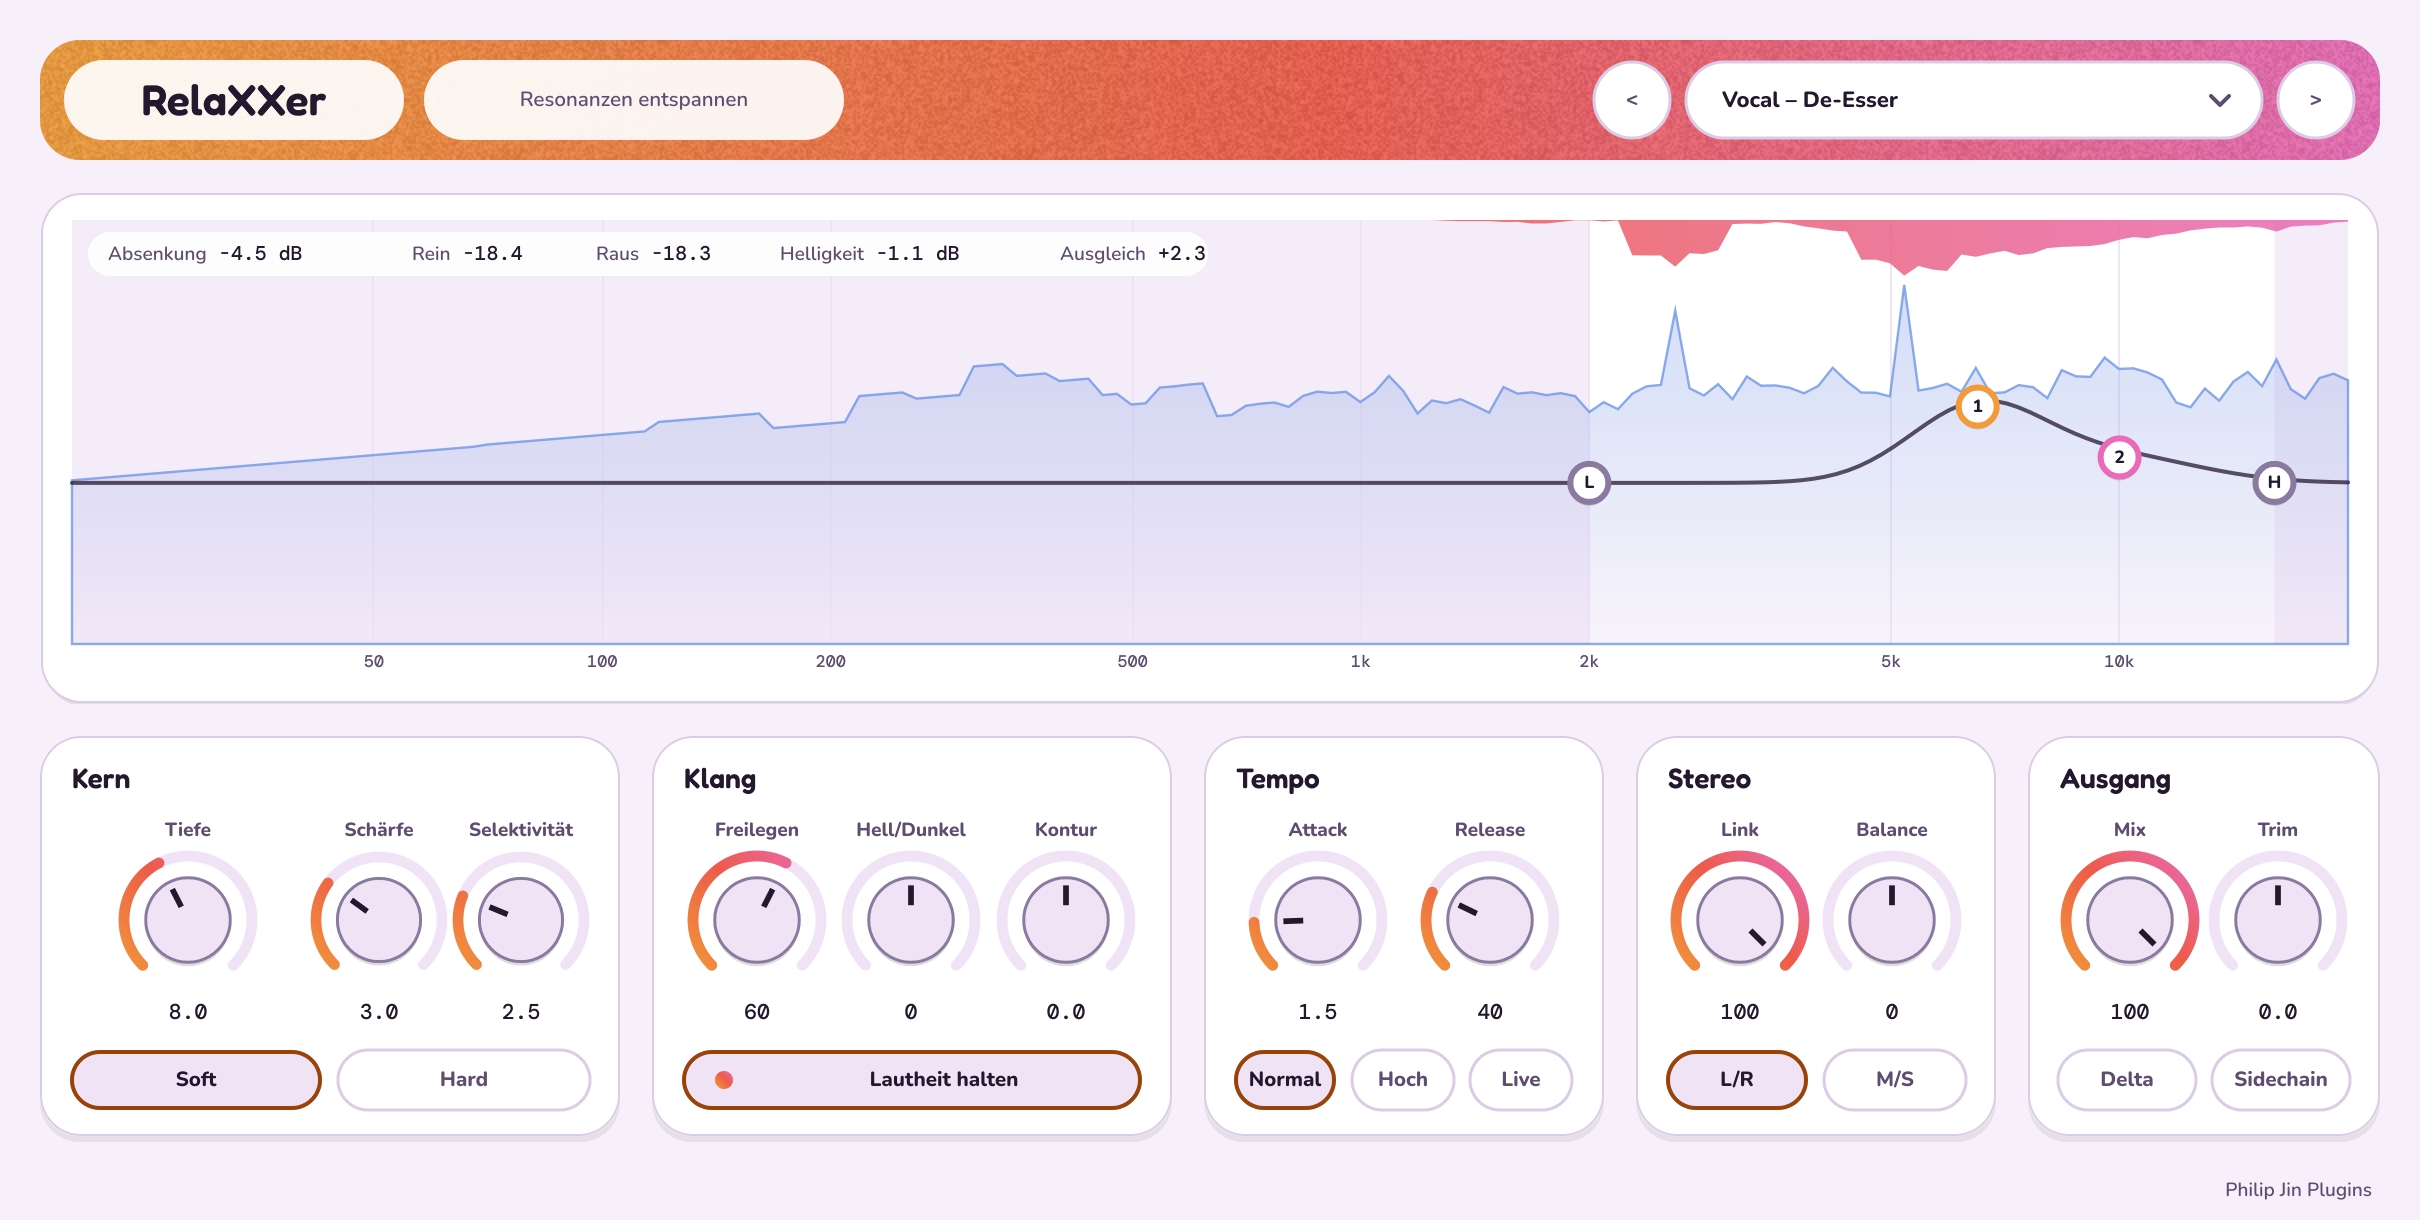
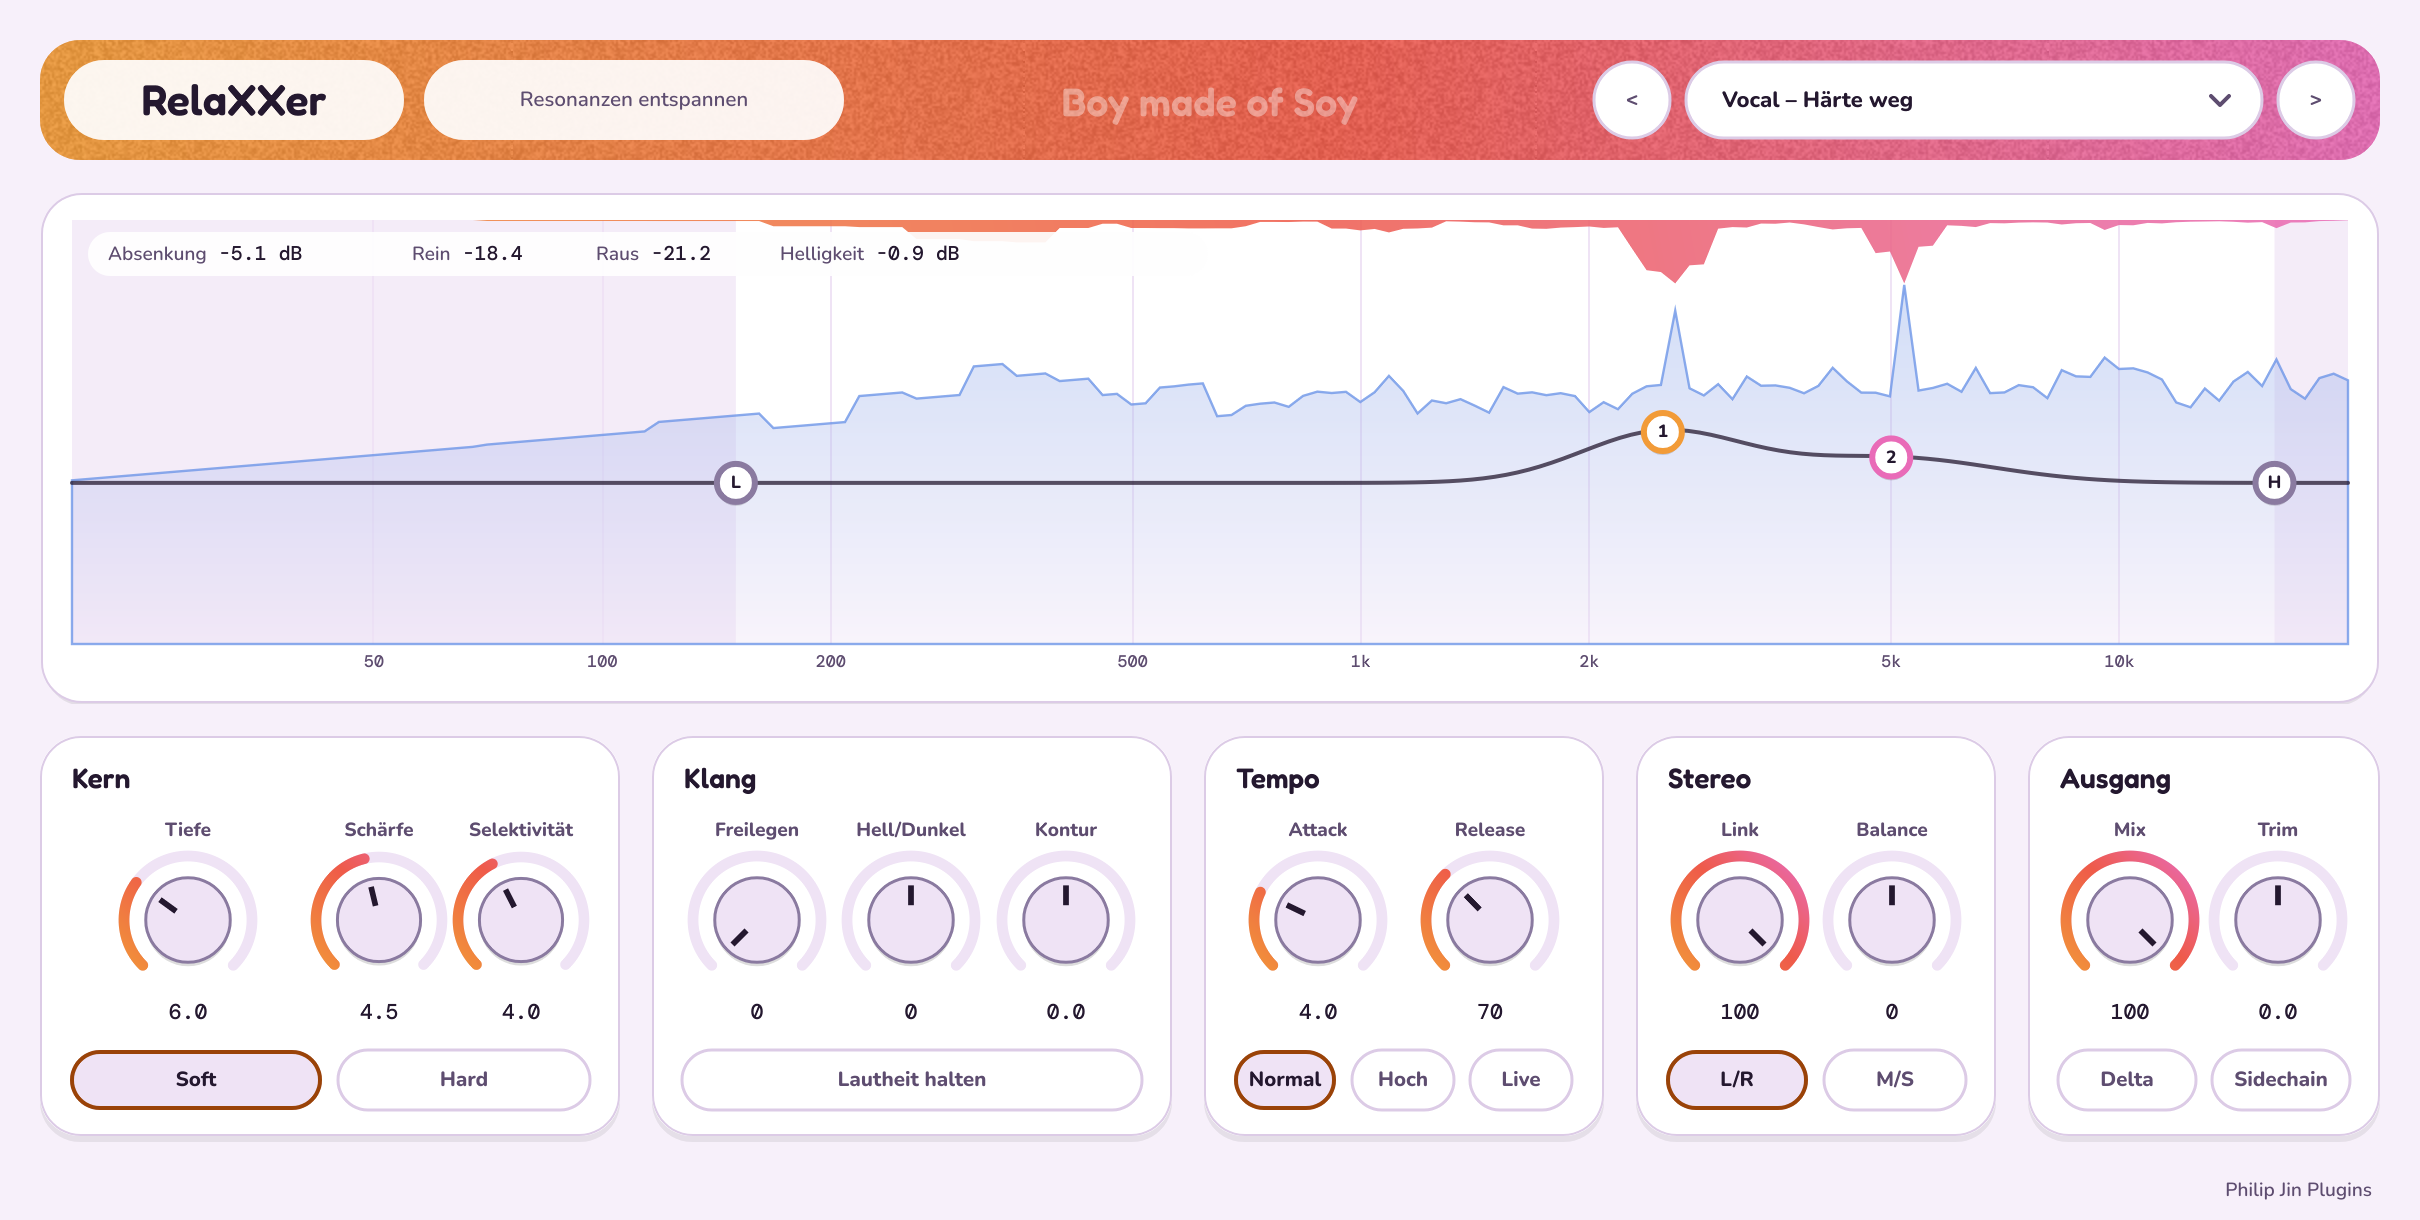
Wasserzeichen "Boy made of Soy" mittig in der App-Leiste
Claude-Session: https://claude.ai/code/session_01X9k6KG9QaT2xQqebecujZa

diff --git a/Source/PluginEditor.cpp b/Source/PluginEditor.cpp
@@ -790,6 +790,11 @@ void RelaxxerEditor::paint (juce::Graphics& g)
         g.fillRect (a);
         g.restoreState();
 
+        // Wasserzeichen der Marke, mittig im Balken
+        g.setColour (juce::Colours::white.withAlpha (0.38f));
+        g.setFont (soy::Fonts::display (24.0f));
+        g.drawText ("Boy made of Soy", a.withSizeKeepingCentre (300.0f, a.getHeight()).translated (0.0f, 1.0f), juce::Justification::centred);
+
         auto plate = juce::Rectangle<float> (a.getX() + 12, a.getY() + 10, 170, a.getHeight() - 20);
         g.setColour (C::panel.withAlpha (0.92f));
         g.fillRoundedRectangle (plate, plate.getHeight() * 0.5f);
